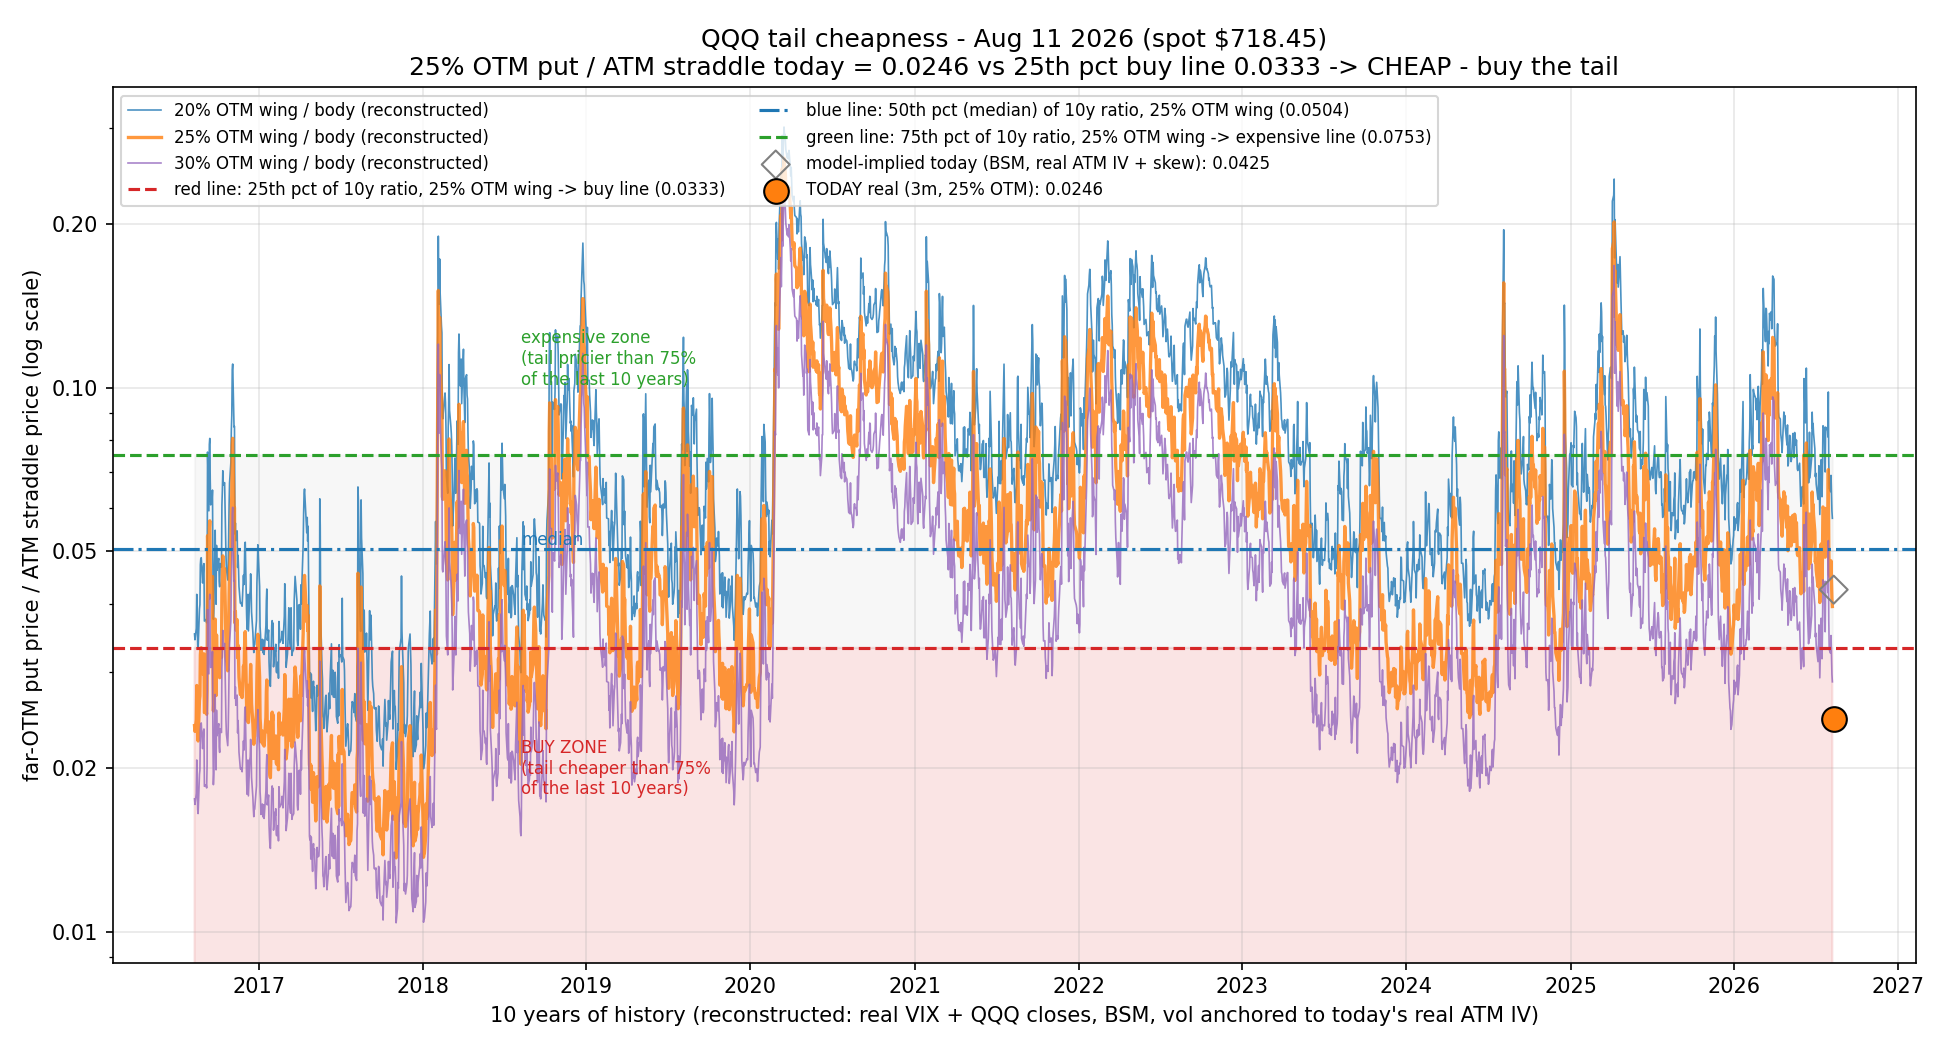
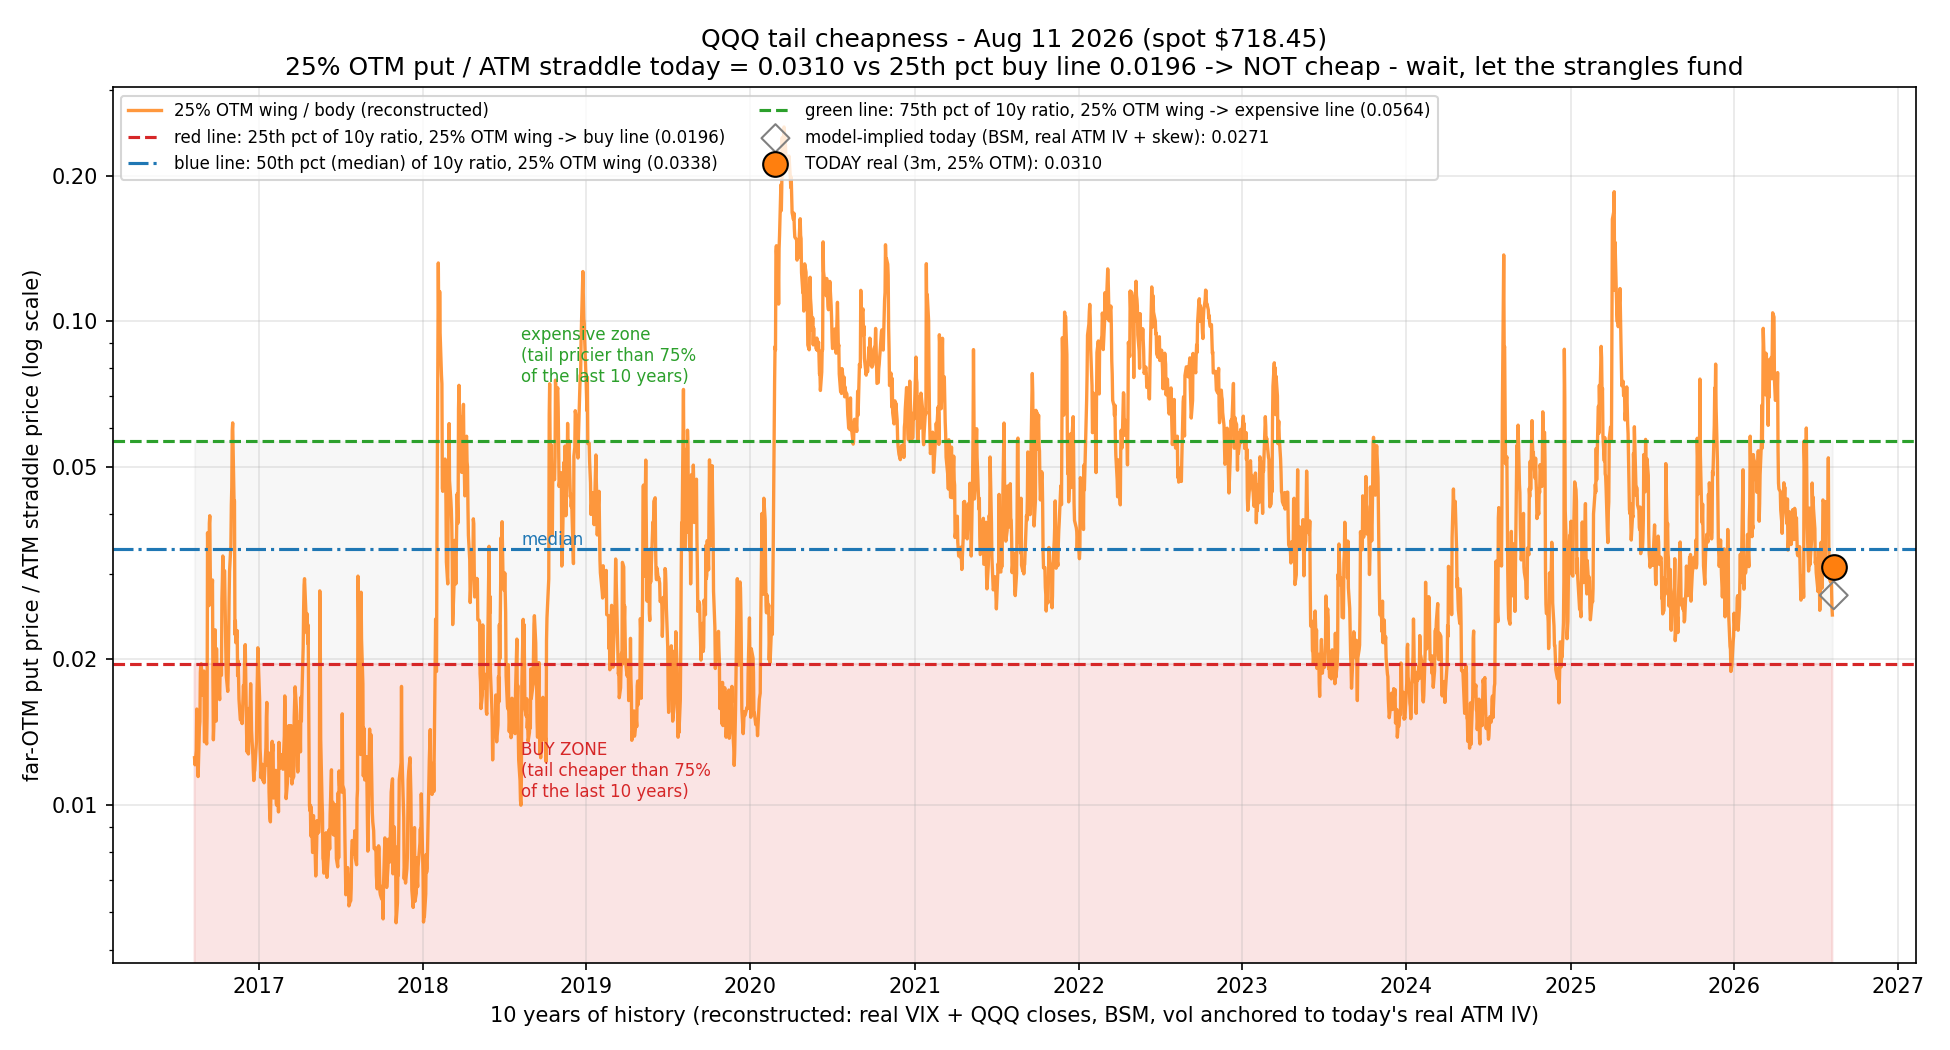
fix calendar and trading day bug

diff --git a/fentu/pricingservices/tail_plot.py b/fentu/pricingservices/tail_plot.py
@@ -11,6 +11,8 @@ Reconstruction assumptions (stated on the chart):
   constant and a flat term structure. The vol LEVEL is anchored to today's
   real ATM IV (the market's vol premium) — NOT to today's wing ratio, so
   today's real wing quote stays an independent, out-of-sample test point.
+- The tenor is the REAL option's actual calendar DTE (~90 days), so the
+  model prices the same maturity as the quotes it is compared against.
 - Today's dots: REAL mid-market quotes from the yfinance chain, compared
   against the model-implied point at today's real ATM IV + skew offsets.
 """
@@ -43,7 +45,7 @@ from fentu.pricingservices.tail_ratio import percentile
 
 logger = logging.getLogger(__name__)
 
-MATURITIES = {"3m": 63}  # trading days to expiry
+MATURITIES = {"3m": 90}  # calendar days to expiry (pick_expiry matches calendar DTE); ~3 months ~ 63 trading days
 WING_LEVELS = [0.20, 0.25, 0.30]  # OTM fractions
 DECISION_LEVEL = 0.25  # the wing this plot decides on
 LEVEL_COLORS = {0.20: "#1f77b4", 0.25: "#ff7f0e", 0.30: "#9467bd"}
@@ -103,8 +105,8 @@ def download_price_history(years=10):
     """Phase A: download and align VIX/QQQ closes over the window."""
     end = datetime.now().date()
     start = end - timedelta(days=int(years * 365.25))
-    vix = yf.download("^VIX", start=start, end=end, progress=False)["Close"]
-    qqq = yf.download("QQQ", start=start, end=end, progress=False)["Close"]
+    vix = yf.download("^VIX", start=start, end=end, progress=False, auto_adjust=False)["Close"]
+    qqq = yf.download("QQQ", start=start, end=end, progress=False, auto_adjust=False)["Close"]
     dates = vix.index.intersection(qqq.index)
     if len(dates) == 0:
         raise RuntimeError("no overlapping VIX/QQQ history downloaded — check network and retry")
@@ -136,7 +138,9 @@ def historical_ratios(quotes, years=10):
 
     The vol level is anchored to today's real ATM IV (vol premium) — NOT to
     today's wing ratio — so the terminal reconstructed point is model-implied
-    and today's real wing quote remains an independent test point.
+    and today's real wing quote remains an independent test point. The tenor
+    is the REAL option's calendar DTE (quotes[label]["dte"]), so model and
+    real quote price the same maturity — wing/body ratios are tenor-sensitive.
     """
     history = download_price_history(years)
     vix_last = float(history.vix.loc[history.dates[-1]].iloc[0])
@@ -148,16 +152,17 @@ def historical_ratios(quotes, years=10):
         vix_last,
     )
     ratios = {}
-    for label, days in MATURITIES.items():
+    for label in MATURITIES:
         vol_anchor = quotes[label]["atm_iv"] / (vix_last / 100.0)
-        ratios[label] = reconstruct_ratios(
-            history, quotes[label]["skew_pts"], days / 252.0, vol_anchor
-        )
+        t_years = quotes[label]["dte"] / 365.0
+        ratios[label] = reconstruct_ratios(history, quotes[label]["skew_pts"], t_years, vol_anchor)
         logger.info(
-            "label %s: atm_iv=%.4f, vol_anchor=%.3f, reconstructed %d points",
+            "label %s: atm_iv=%.4f, vol_anchor=%.3f, dte=%d days -> t=%.4f y, reconstructed %d points",
             label,
             quotes[label]["atm_iv"],
             vol_anchor,
+            quotes[label]["dte"],
+            t_years,
             len(ratios[label]),
         )
     return ratios
@@ -225,11 +230,17 @@ def plot_tail_cheapness(save_path=None):
 
 
 def _plot_wing_series(ax, series):
-    for pct in WING_LEVELS:
-        sr = series[pct]
-        color = LEVEL_COLORS[pct]
-        lw = 1.6 if pct == DECISION_LEVEL else 0.8
-        ax.plot([d for d, r in sr], [r for d, r in sr], lw=lw, color=color, alpha=0.8, label=f"{int(pct*100)}% OTM wing / body (reconstructed)")
+    """Plot only the decision wing's reconstructed ratio series (the 20%/30% lines removed)."""
+    sr = series[DECISION_LEVEL]
+    color = LEVEL_COLORS[DECISION_LEVEL]
+    ax.plot(
+        [d for d, r in sr],
+        [r for d, r in sr],
+        lw=1.6,
+        color=color,
+        alpha=0.8,
+        label=f"{int(DECISION_LEVEL*100)}% OTM wing / body (reconstructed)",
+    )
 
 
 def _plot_decision_annotations(ax, series):
